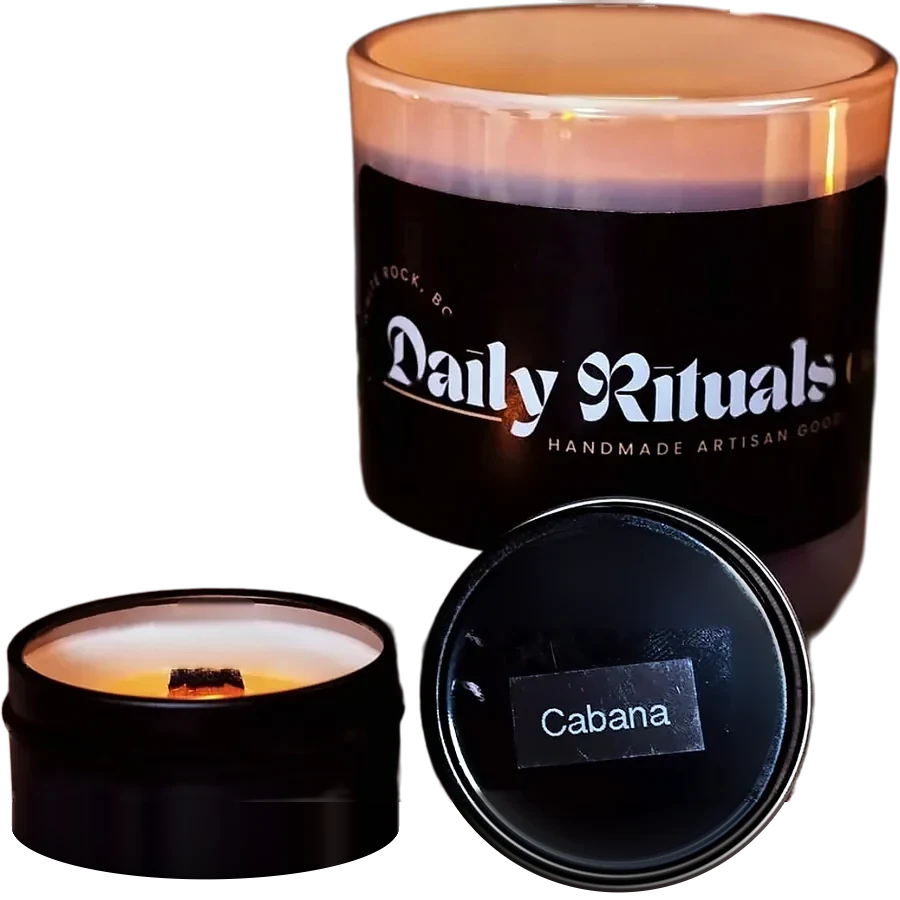
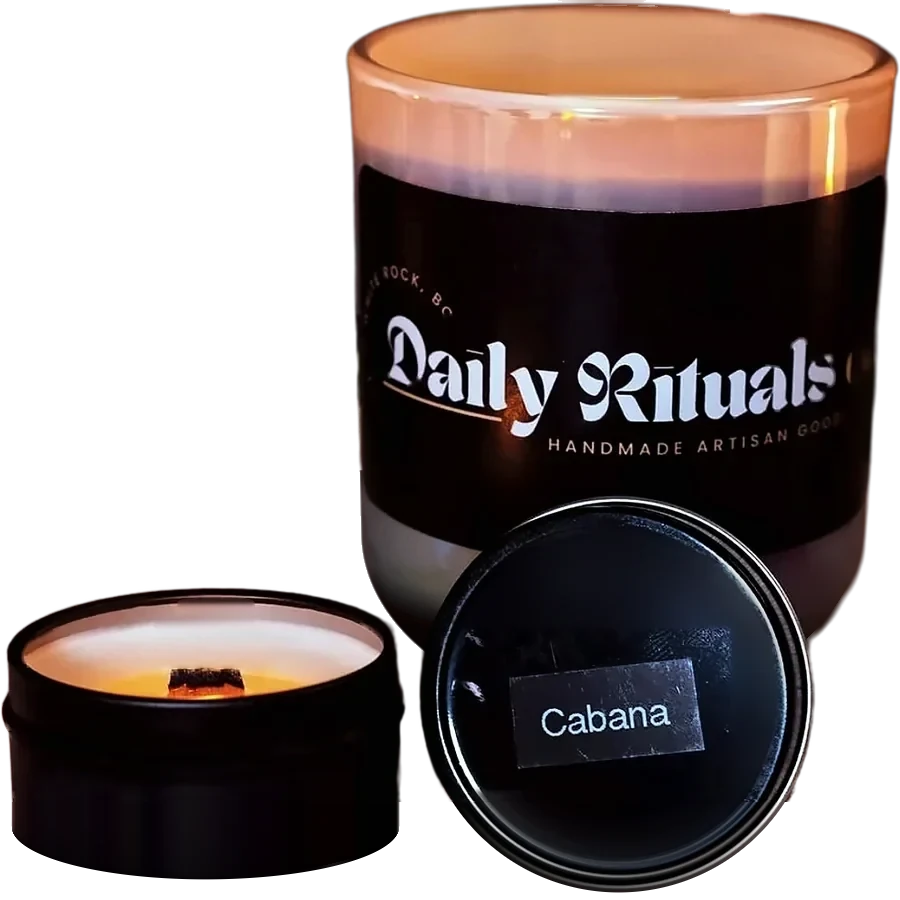
Glass tumblers: put back the glass the background removal cut away
Cabana's tumbler had lost its bottom-left glass (between the label, the small tin and
the lid) and Verdant's had lost the glass below its label at the left and was half
transparent where its reflection sits. tools/photo/glass_restore.py registers each
cut-out to its master photograph, rebuilds the tumbler's outline from its walls and a
rounded base fitted to the side the cut kept, mirrored across the tumbler's axis, and
brings the master's own pixels back inside it, colour-matched to each variant (lit,
glow, unlit; 900 and 480). Faint half-transparent stripes in the tins are made opaque.
Image sizes are unchanged, so picker.ts and flamebreath.ts are untouched.

Claude-Session: https://claude.ai/code/session_01RanBWMym3Yx8zSFUMRBnKQ

Changed region(s): [[0.3733, 0.5289, 0.5289, 0.7156], [0.3422, 0.8711, 0.3733, 0.9022]]

diff --git a/tools/photo/glass_restore.py b/tools/photo/glass_restore.py
@@ -1,0 +1,255 @@
+"""Give the glass tumblers back the glass the background removal cut away.
+
+The owner saw it on Cabana ("the bottom left is cut out, there should be glass there") and in the breathing pause: below
+the label, at the bottom left of the tumbler (between the label, the small tin and the lid), the glass wall and the start of
+its rounded base had gone with the background, so the page showed through. Verdant's tumbler had lost glass too: the
+green-and-lilac reflection low on its right side, and the base just right of the lid, had been read as background and left
+half transparent. The tins' completed feet (picker_foot.py) had also carried a few faint, half-transparent stripes down.
+
+Every tumbler cut-out is repaired from the original photographs' own pixels:
+  1. Registration: each 900 px cut-out is a crop of the retouched master (/tmp/retouch/master/<name>.png, grade.py),
+     scaled. The scale and offset are found by template matching on the label, refined with ECC (sub-pixel).
+  2. The tumbler's outline: a tumbler is symmetrical about its axis. The axis is the middle of the two walls (straight
+     lines fitted to the cut-out's edges along the label). Its half-width is the walls' down to the start of the base,
+     then a quarter-ellipse (the rounded base, in the photograph's perspective) fitted to the right-hand outline that the
+     cut-out kept, clear of the lid. Mirrored, the same profile closes the side the cut lost (the bottom left), drawn
+     anti-aliased and as soft as the cut-out's own edge. Right of the axis the cut-out's own edge is kept and only its
+     inside is filled: holes and half-transparent patches (white glass is not see-through).
+  3. Inside that outline, wherever the cut-out is more transparent than the glass, the glass comes back behind whatever
+     is already there: the master's own pixels (the real wall, its reflections and the start of the base), mapped to each
+     variant's light by a smooth colour fit (a second-order polynomial in RGB) over the whole tumbler, so the lit cut-out,
+     the glow and the unlit photographs each keep their own grade. The outermost pixels take their colour from just inside
+     the glass (no dark background in the edge). Nothing is painted: every restored pixel is the photograph's.
+  4. Inside the tins and the lid (metal), any half-transparent pixel is made opaque.
+The tin and the lid in front of the tumbler stay exactly as they were. Sizes are kept (900 x 900 and 900 x 841, the 480
+px copies remade from them), so picker.ts, flamebreath.ts and the markup need no change.
+
+Run it once, from the repository root, on the cut-outs as they were (a second run finds nothing to restore, but would
+re-encode the WebP files once more):
+    python3 -I tools/photo/glass_restore.py public/img/studio
+Proofs (before and after over a dark and a light ground, and the restored pixels) go to /tmp/retouch/glass/.
+"""
+import os, sys
+import numpy as np
+import cv2
+from PIL import Image
+
+HERE = os.path.dirname(os.path.abspath(__file__))
+sys.path.insert(0, HERE)
+sys.dont_write_bytecode = True
+from picker_foot import CANDLES as FOOT, lid_circle  # noqa: E402
+
+ROOT = sys.argv[1] if len(sys.argv) > 1 else 'public/img/studio'
+MASTER = '/tmp/retouch/master'
+PROOF = '/tmp/retouch/glass'
+os.makedirs(PROOF, exist_ok=True)
+
+# per candle: the master, the rows along the label where both walls are clean, the first row from which glass is restored
+# (the rim, the label and the walls beside it are whole), and the variants (path, 900 quality, 480 quality)
+CANDLES = {
+    'cabana': dict(master='cabana-candles', walls=(100, 460), start=470,
+                   files=[('cut/cabana-900.webp', 86, 84), ('picker/cabana-glow-900.webp', 90, 90), ('picker/cabana-unlit-900.webp', 88, 88)]),
+    'verdant': dict(master='verdant-candles', walls=(100, 440), start=430,
+                    files=[('cut/verdant-900.webp', 86, 84), ('picker/verdant-glow-900.webp', 88, 86), ('picker/verdant-unlit-900.webp', 88, 88)]),
+}
+
+
+def load(p):
+    return np.asarray(Image.open(p).convert('RGBA')).astype(np.float64) / 255
+
+
+def register(cut_rgb, master_rgb):
+    """2x3 affine A with cut(x, y) = master(A @ [x, y, 1]): template match on the label, then ECC refinement."""
+    cg = cv2.cvtColor((cut_rgb * 255).astype(np.uint8), cv2.COLOR_RGB2GRAY)
+    mg = cv2.cvtColor((master_rgb * 255).astype(np.uint8), cv2.COLOR_RGB2GRAY)
+    H, W = cg.shape
+    x0, y0, x1, y1 = int(W * .40), int(H * .25), int(W * .95), int(H * .45)
+    tpl = cg[y0:y1, x0:x1]
+    best = None
+    for s in np.arange(0.80, 1.00, 0.002):
+        mm = cv2.resize(mg, (round(mg.shape[1] * s), round(mg.shape[0] * s)), interpolation=cv2.INTER_AREA)
+        r = cv2.matchTemplate(mm, tpl, cv2.TM_CCOEFF_NORMED)
+        _, v, _, loc = cv2.minMaxLoc(r)
+        if best is None or v > best[0]:
+            best = (v, s, loc)
+    v, s, (lx, ly) = best
+    A = np.array([[1 / s, 0, (lx - x0) / s], [0, 1 / s, (ly - y0) / s]], np.float32)
+    # ECC on the tumbler (label and glass), master warped into the cut's frame
+    roi = np.zeros((H, W), np.uint8); roi[int(H * .1):int(H * .6), int(W * .4):int(W * .97)] = 1
+    try:
+        _, A2 = cv2.findTransformECC(cg.astype(np.float32), mg.astype(np.float32), A.copy(), cv2.MOTION_AFFINE,
+                                     (cv2.TERM_CRITERIA_EPS | cv2.TERM_CRITERIA_COUNT, 200, 1e-6), roi, 5)
+        A = A2
+    except cv2.error:
+        pass
+    return A, v
+
+
+def warp(master_rgb, A, W, H):
+    return cv2.warpAffine(master_rgb.astype(np.float32), A, (W, H), flags=cv2.INTER_CUBIC | cv2.WARP_INVERSE_MAP,
+                          borderMode=cv2.BORDER_REPLICATE).astype(np.float64).clip(0, 1)
+
+
+def crossings(a, y):
+    xs = np.where(a[y] >= 0.5)[0]
+    return (xs.min(), xs.max()) if len(xs) else (None, None)
+
+
+
+
+def walls(a, cfg):
+    ys = np.arange(*cfg['walls'], 4)
+    L = np.array([crossings(a, y)[0] for y in ys], float)
+    R = np.array([crossings(a, y)[1] for y in ys], float) + 1
+    return np.polyfit(ys, L, 1), np.polyfit(ys, R, 1)
+
+
+def occluders(shape, lid, tin):
+    """The lid (a disc) and the small tin (its rim ellipse and the body below it), which stand in front of the tumbler."""
+    H, W = shape
+    yy, xx = np.mgrid[0:H, 0:W].astype(np.float64)
+    (lx, ly), lr = lid
+    in_lid = np.hypot(xx - lx, yy - ly) < lr + 2
+    tcx, tcy, ta, tb = tin
+    u = np.clip((xx - tcx) / ta, -1, 1)
+    in_tin = (np.abs(xx - tcx) <= ta + 4) & (yy >= tcy - tb * np.sqrt(1 - u ** 2) - 12)  # with its rolled rim
+    return in_lid, in_tin
+
+
+def outline(a, kl, kr, cfg, lid):
+    """The tumbler's silhouette (0..1) and the parameters of its base.
+
+    A tumbler is symmetrical about its axis (the middle of its two walls). Its half-width is the walls' down to the start
+    of the base, then a quarter-ellipse (the rounded base in the photograph's perspective) fitted to the right-hand
+    outline the cut-out kept, where the lid does not hide it. The same profile, mirrored, closes the left-hand side."""
+    H, W = a.shape
+    (lx, ly), lr = lid
+    axis = lambda y: (np.polyval(kl, y) + np.polyval(kr, y)) / 2
+    half = lambda y: (np.polyval(kr, y) - np.polyval(kl, y)) / 2
+    pts = []
+    for y in range(cfg['walls'][1], H):
+        c = int(round(axis(y)))
+        if a[y, c] < 0.5:
+            continue
+        x = c
+        while x + 1 < W and a[y, x + 1] >= 0.5:
+            x += 1
+        x += 1
+        if np.hypot(x - lx, y - ly) < lr + 3:
+            continue
+        pts.append((x, y))
+    pts = np.array(pts, float)
+    px, py = pts[:, 0], pts[:, 1]
+    best = None
+    for yb in np.arange(cfg['walls'][1], py.max(), 1.0):
+        for b in np.arange(20, 220, 1.0):
+            t = np.clip((py - yb) / b, 0, 1)
+            pred = axis(py) + half(py) * np.sqrt(1 - t ** 2)
+            err = np.mean(np.where(py <= yb + b, (pred - px) ** 2, 400.0))
+            if best is None or err < best[0]:
+                best = (err, yb, b)
+    err, yb, b = best
+    # anti-aliased: 4 sub-rows per row, exact horizontal coverage
+    S = np.zeros((H, W))
+    xx = np.arange(W) + 0.5
+    for y in range(cfg['start'], H):
+        acc = np.zeros(W)
+        for sy in (0.125, 0.375, 0.625, 0.875):
+            yf = y + sy
+            t = (yf - yb) / b
+            if t >= 1:
+                continue
+            w = half(yf) * np.sqrt(1 - max(t, 0) ** 2)
+            acc += np.clip(w - np.abs(xx - axis(yf)) + 0.5, 0, 1)
+        S[y] = acc / 4
+    return S, dict(yb=float(yb), b=float(b), err=float(err), n=len(pts))
+
+
+def poly_fit(src, dst, m):
+    def feats(x):
+        r, g, b = x[..., 0], x[..., 1], x[..., 2]
+        return np.stack([r, g, b, r * r, g * g, b * b, r * g, r * b, g * b, np.ones_like(r)], -1)
+    coef, *_ = np.linalg.lstsq(feats(src[m]), dst[m], rcond=None)
+    resid = float(np.abs(feats(src[m]) @ coef - dst[m]).mean())
+    return (lambda s: np.clip(feats(s) @ coef, 0, 1)), resid
+
+
+def inward(rgb, solid, sigma=1.6):
+    w = solid.astype(np.float64)
+    num = cv2.GaussianBlur(rgb * w[..., None], (0, 0), sigma)
+    den = cv2.GaussianBlur(w, (0, 0), sigma)[..., None]
+    return num / np.maximum(den, 1e-6), den[..., 0]
+
+
+def metal_solid(a, S, box):
+    """Opaque interior of the tin and the lid: their filled shape, 3 px in from its edge, outside the tumbler."""
+    m = ((a > 0.5) & ~(box & (S > 0.01))).astype(np.uint8)
+    h, w = m.shape
+    ff = m.copy()
+    cv2.floodFill(ff, np.zeros((h + 2, w + 2), np.uint8), (0, 0), 1)
+    filled = m | (1 - ff)
+    return cv2.erode(filled, cv2.getStructuringElement(cv2.MORPH_ELLIPSE, (7, 7))) > 0
+
+
+def run(name, cfg):
+    M = np.asarray(Image.open(f"{MASTER}/{cfg['master']}.png").convert('RGB')).astype(np.float64) / 255
+    ref = load(f"{ROOT}/{cfg['files'][0][0]}")
+    H, W = ref.shape[:2]
+    A, score = register(ref[..., :3], M)
+    Mw = warp(M, A, W, H)
+    fx, fy = FOOT[name]['lid']
+    lcx, lr = lid_circle(ref[..., 3] * 255, fx, fy, H)
+    in_lid, in_tin = occluders((H, W), ((lcx, fy), lr), FOOT[name]['tin'])
+    kl, kr = walls(ref[..., 3], cfg)
+    S, geo = outline(ref[..., 3], kl, kr, cfg, ((lcx, fy), lr))
+    yy, xx = np.mgrid[0:H, 0:W]
+    axis = (np.polyval(kl, yy) + np.polyval(kr, yy)) / 2
+    box = (xx >= np.polyval(kl, yy) - 6) & (xx <= np.polyval(kr, yy) + 6)
+    # right of the axis the cut-out's own edge is the photograph's: there the outline only fills the inside (3 px in)
+    inner = cv2.erode((S > 0.999).astype(np.uint8), cv2.getStructuringElement(cv2.MORPH_ELLIPSE, (7, 7))) > 0
+    # the new edge as soft as the cut-out's own (hero_cut.py blurs its alpha by 0.7 px)
+    S = np.where(S > 0, cv2.GaussianBlur(S, (0, 0), 0.7), 0.0)
+    S = np.where(xx >= axis, np.where(inner, 1.0, 0.0), S)
+    print(f"{name}: master scale {1 / A[0, 0]:.4f}, offset ({A[0, 2]:.1f}, {A[1, 2]:.1f}), match {score:.3f}; "
+          f"lid r {lr:.1f}; base from y {geo['yb']:.0f}, depth {geo['b']:.0f} (fit rms {np.sqrt(geo['err']):.2f} px on {geo['n']} rows)")
+    for path, q900, q480 in cfg['files']:
+        im = load(f'{ROOT}/{path}')
+        rgb, a = im[..., :3], im[..., 3]
+        # each variant's light: a colour fit from the master over the whole opaque tumbler (label, glass and rim)
+        fitm = box & (a > 0.995) & ~in_lid & ~in_tin & (yy > 60)
+        f, resid = poly_fit(Mw, rgb, fitm)
+        src = f(Mw)
+        core = S > 0.999
+        src_in, cov = inward(src, core)
+        src = np.where(((S < 0.999) & (cov > 0.05))[..., None], src_in, src)
+        # the glass goes behind what is already there (the lid's and tin's edges, half-transparent glass)
+        na = a + (1 - a) * S
+        add = na - a
+        out = (rgb * a[..., None] + src * add[..., None]) / np.maximum(na, 1e-6)[..., None]
+        out = np.where((na > 1e-6)[..., None], out, rgb)
+        solid = metal_solid(a, S, box)
+        n_metal = int((solid & (a < 0.98)).sum())
+        na = np.where(solid, 1.0, na)
+        res = Image.fromarray((np.dstack([out, na]) * 255 + 0.5).clip(0, 255).astype(np.uint8), 'RGBA')
+        before = Image.fromarray((im * 255 + 0.5).astype(np.uint8), 'RGBA')
+        res.save(f'{ROOT}/{path}', 'WEBP', quality=q900, method=6)
+        res.resize((480, round(480 * H / W)), Image.LANCZOS).save(f'{ROOT}/{path.replace("-900", "-480")}', 'WEBP', quality=q480, method=6)
+        proof(before, res, add, f"{PROOF}/{path.split('/')[-1].replace('.webp', '')}.png")
+        print(f'  {path}: colour fit residual {resid:.3f}; {int((add > 0.05).sum())} px of glass restored, {n_metal} px made opaque in the tin and lid')
+
+
+def proof(before, after, add, out):
+    W, H = before.size
+    tiles = []
+    for bg in [(24, 18, 30, 255), (246, 238, 226, 255)]:
+        for im in (before, after):
+            g = Image.new('RGBA', (W, H), bg); g.alpha_composite(im); tiles.append(g.convert('RGB'))
+    tiles.append(Image.fromarray((np.clip(add * 4, 0, 1) * 255).astype(np.uint8)).convert('RGB'))
+    o = Image.new('RGB', (W * 5, H), 'white')
+    for i, t in enumerate(tiles): o.paste(t, (i * W, 0))
+    o.save(out)
+
+
+if __name__ == '__main__':
+    for n, c in CANDLES.items():
+        run(n, c)

diff --git a/tools/photo/README.md b/tools/photo/README.md
@@ -7,10 +7,9 @@ These scripts produce every studio photograph the site uses from Claire's origin
    - the sizes in `web/`;
    - the square hero crops (`web/hero-*`) with a soft vignette;
    - the product cut-outs in `cut/`;
-   - Claire's portraits;
    - regraded copies of the archive pictures in `moons/`.
 
-Requirements (Python 3.11): `opencv-python-headless`, `numpy`, `pillow`, `rembg`, `onnxruntime`, `pymatting`. The cut-outs use the rembg models `isnet-general-use` and `u2net`. Claire's cut-out also uses `birefnet-portrait`, combined with the `u2net` mask so the sofa behind her drops out, then cleaned at the edges with pymatting's `estimate_foreground_ml`. `derive.py` reads that result from `/tmp/retouch/claire-cut-clean.png`.
+Requirements (Python 3.11): `opencv-python-headless`, `numpy`, `pillow`, `rembg`, `onnxruntime`, `pymatting`. The cut-outs use the rembg models `isnet-general-use` and `u2net`. Claire's portrait is made separately by `claire_portrait.py` (below), which also uses `birefnet-portrait` and `u2net_human_seg`.
 
 Note: `derive.py` regrades `moons/` in place. Run it only from the original (ungraded) archive pictures, or they will be graded twice.
 
@@ -46,3 +45,30 @@ objects' real shapes instead of a mask's outline. Run them from the repository r
 The masters are `/tmp/retouch/master/<name>.png` (grade.py); when one is missing `moon_faces.master()` grades it on the fly.
 The flawed whole-tin cut-outs that no page showed (apple-cider, candy-cane-lane, easter-bread, mulled-wine, sea-salt-sage)
 were removed rather than left to be picked up later.
+
+## Claire's portrait and the glass tumblers (October 2026, second retouch)
+The owner asked for Claire's picture to fit its frames better ("too close up"), as a professional cut-out with nothing of
+the original background leaking and soft fades where the photograph ends, on the home page and the coaching page; and
+for the glass candles' missing bottom-left glass to be put back everywhere (Cabana behind the shelf, the breathing pause).
+
+- `claire_portrait.py public/img/studio` (with the rembg models in `/root/.rembg/models/<name>/`): rebuilds every Claire
+  image from `claire.jpg`. Three rembg models and hand-drawn sofa areas make the trimap; closed-form matting (pymatting)
+  finds the alpha, with the u2net matte along the cushion right of her hair and a traced curve by her ear where the
+  compressed photograph defeats matting; the edges are decontaminated (`estimate_foreground_ml`, then pulled towards her
+  own colour just inside). The crown the photograph cut flat is completed from the hair's own pixels along its flow. A
+  gentle retouch evens and warms the skin (texture kept, no reshaping). It writes:
+  - `cut/claire-900.webp` (900 x 1125) and `cut/claire-480.webp` (480 x 600): a transparent 4:5 plate for the arch frames
+    (home Meet Claire, coaching opener): head and shoulders centred, room above her head, the torso and the raised arm
+    fading softly to transparent where the photograph ends. The frames show it with `object-fit: cover` from the bottom.
+  - `web/claire-round.webp` (720 x 720): head and shoulders on the warm studio backdrop (coaching Meet your coach, story).
+  - `web/claire-900.webp` (826 x 900): the same on the backdrop (no page uses it at present).
+- `glass_restore.py public/img/studio`: puts back the glass the background removal cut away from the tumblers in
+  `cut/cabana-*`, `cut/verdant-*` and `picker/*` (lit, glow and unlit; 900 and 480). Each cut-out is registered to its
+  master (template match, then ECC); the tumbler's outline is its walls plus a rounded base fitted to the side the cut
+  kept, mirrored across the tumbler's axis to close the side it lost; inside it, the master's own pixels come back behind
+  the lid's and tin's edges, mapped to each variant's grade by a polynomial colour fit over the whole tumbler. Half-
+  transparent pixels inside the tins and lid are made opaque. Image sizes are unchanged. Run it after `picker_foot.py` and
+  `cut_feet.py`, once.
+- `frame_shots.mjs` (Node, with the preview running): screenshots of every frame that shows the portrait or a tumbler
+  (home, coaching opener, Meet your coach, story, the home shelf, the shop's candle heading, the coaching cue kit, the
+  breathing pause) at 1440, 1024, 390 and 360 px.
